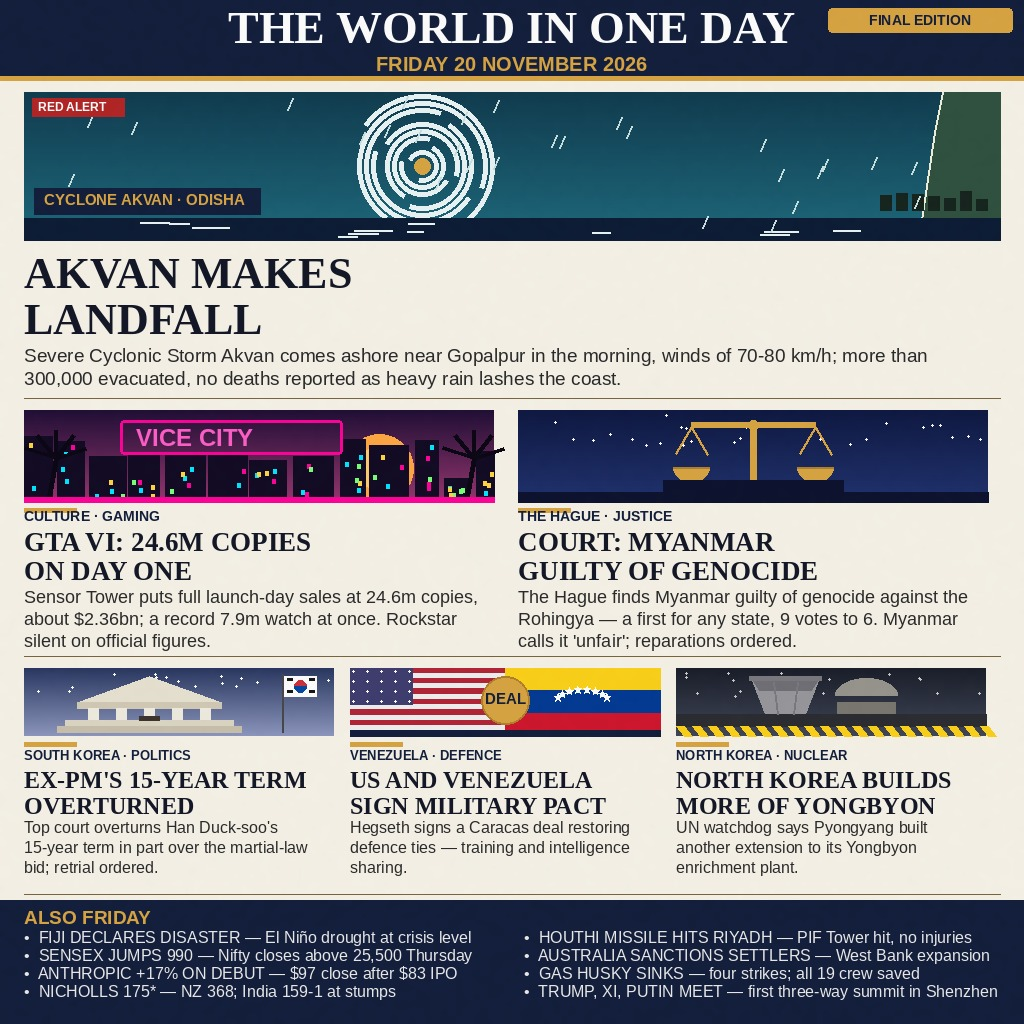
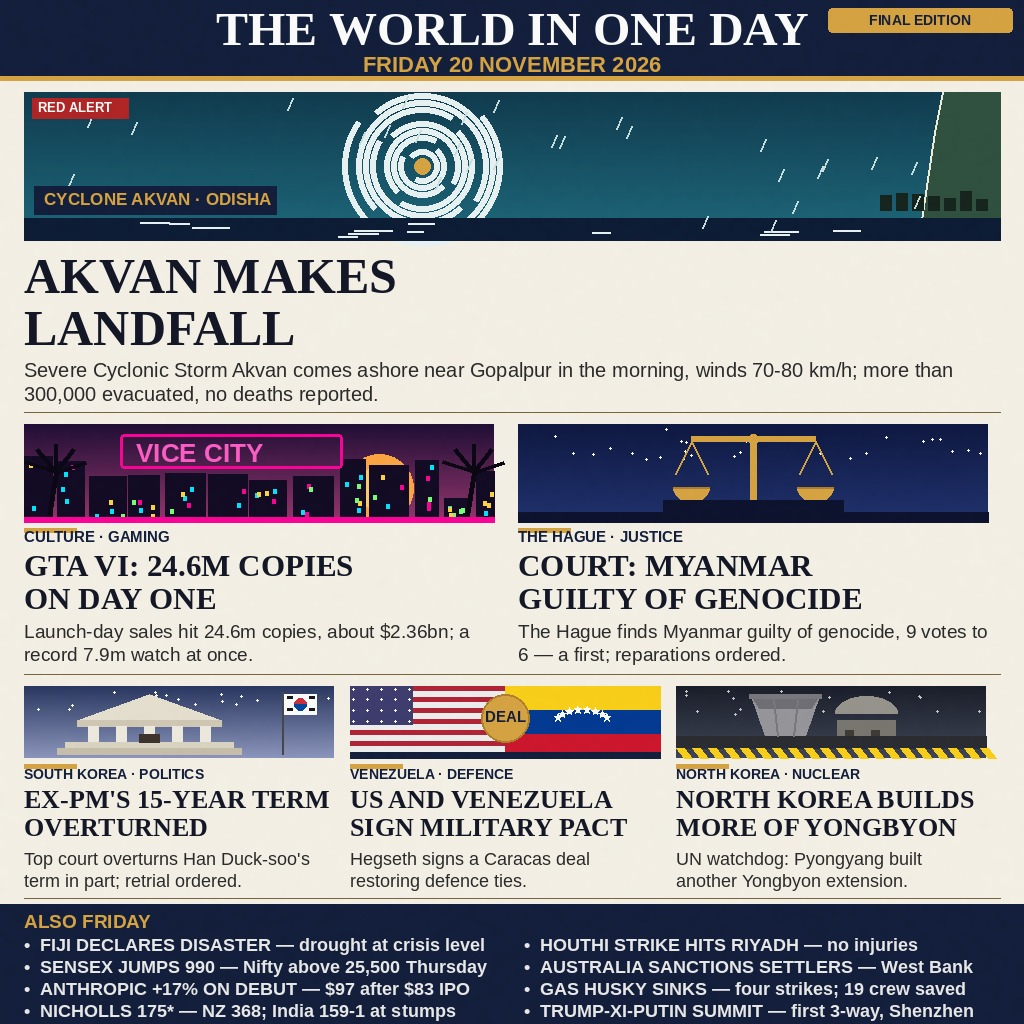
news-image-20261120 v4: re-typeset for the 300px read — bigger headlines, two-line decks, bold one-line briefs; no facts changed

diff --git a/main.ts b/main.ts
@@ -14,14 +14,12 @@ import { fileURLToPath } from "node:url";
 // pact and the Yongbyon expansion, plus an eight-item briefs band
 // (including the Shenzhen summit and the Houthi strike on Riyadh).
 //
-// v3: build.py re-verified every story against live reporting — Akvan
-// landfall in the morning (70-80 km/h, more than 300,000 evacuated,
-// no deaths), GTA VI full launch-day sales 24.6m / $2.36bn, cricket at
-// stumps (Nicholls 175*, NZ 368), ICJ deck adds Myanmar's "unfair"
-// dismissal, and two missing major stories added (Shenzhen summit,
-// Houthi strike on Riyadh's PIF Tower). Briefs band set at 16pt for
-// 300px legibility. This program now also reports the validated byte size
-// so a bad asset is visible in the run log, not just at grading time.
+// v4: build.py re-typeset the page for the 300px read only — no fact
+// or number changed. Headlines up (hero 50pt, row 2 31pt, row 3 26pt),
+// every deck cut to two lines at larger type, briefs set bold at 18pt
+// and shortened to one line each, art strips taller, hero spiral
+// enlarged. The image below is the v4 render (deterministic, same
+// bytes on a re-run); everything else about this program is unchanged.
 const MAX_BYTES = 1048576; // 1 MiB gate cap
 const outDir = process.env.MAKEFUN_OUTPUT_DIR ?? "/output";
 mkdirSync(outDir, { recursive: true });

diff --git a/build.py b/build.py
@@ -16,6 +16,17 @@ injuries). The soft royals brief is swapped out for the Houthi strike.
 ICJ deck adds Myanmar calling the ruling "unfair" on Friday. Briefs
 stay 16pt; an 8th brief fits the band's second column.
 
+v4 (this session): CRAFT ONLY — no fact or number changed. The v3
+image at 300px wide showed decks and briefs washing out to grey mush
+and row-3 headlines barely readable, so the page is re-typeset for
+the 300px read: headlines up (hero 44->50pt, row 2 27->31pt, row 3
+24->26pt — 26pt is the largest that still fits the 310px row-3 tiles),
+every deck cut to two lines max at larger type (hero 20pt, row 2
+19pt, row 3 18pt), briefs set bold at 18pt and shortened to fit one
+line each, hero spiral enlarged and its chips bumped, art strips
+taller (row 2 92->98px, row 3 68->72px). Layout re-gridded to fit:
+hero deck ends ~402, row 2 424-662, row 3 686-888, briefs 904-1024.
+
 Stories (all verified against reputable reporting before they were drawn):
   hero  Cyclone Akvan makes landfall near Gopalpur, Odisha, in the
         morning (07:30-08:30 IST), winds 70-80 km/h gusting 90; more
@@ -136,11 +147,11 @@ def cyclone_hero(img, box, rng):
     vgrad(img, box, (14, 58, 78), (28, 104, 124))
     d = ImageDraw.Draw(img, "RGBA")
     cx, cy = (x0 + x1) // 2 - 90, (y0 + y1) // 2
-    # spiral bands, tightening toward the eye
-    for r in range(72, 12, -7):
+    # spiral bands, tightening toward the eye (v4: larger, fills the strip)
+    for r in range(80, 14, -7):
         start = (r * 13) % 360
         d.arc([cx - r, cy - r, cx + r, cy + r], start=start,
-              end=start + 255, fill=(235, 245, 245), width=5)
+              end=start + 255, fill=(235, 245, 245), width=6)
     d.ellipse([cx - 8, cy - 8, cx + 8, cy + 8], fill=GOLD)
     # coastline and a small coastal town on the right
     d.polygon([(x1 - 58, y0), (x1, y0), (x1, y1), (x1 - 82, y1),
@@ -162,13 +173,13 @@ def cyclone_hero(img, box, rng):
         rx = rng.randint(x0 + 4, x1 - 8)
         ry = rng.randint(y0 + 4, y1 - 20)
         d.line([rx, ry, rx - 5, ry + 12], fill=(200, 225, 225), width=2)
-    # tags: red alert top-left, kicker chip bottom-left
-    d.rectangle([x0 + 8, y0 + 6, x0 + 100, y0 + 24], fill=RED)
-    d.text((x0 + 14, y0 + 8), "RED ALERT", font=fnt(SANS_B, 12),
+    # tags: red alert top-left, kicker chip bottom-left (v4: larger type)
+    d.rectangle([x0 + 8, y0 + 6, x0 + 104, y0 + 26], fill=RED)
+    d.text((x0 + 14, y0 + 8), "RED ALERT", font=fnt(SANS_B, 13),
            fill=(255, 255, 255))
-    d.rectangle([x0 + 10, y1 - 52, x0 + 236, y1 - 26], fill=NAVY)
-    d.text((x0 + 20, y1 - 49), "CYCLONE AKVAN · ODISHA",
-           font=fnt(SANS_B, 15), fill=GOLD)
+    d.rectangle([x0 + 10, y1 - 54, x0 + 252, y1 - 26], fill=NAVY)
+    d.text((x0 + 20, y1 - 51), "CYCLONE AKVAN · ODISHA",
+           font=fnt(SANS_B, 17), fill=GOLD)
 
 
 def neon_city(img, box, rng):
@@ -186,7 +197,7 @@ def neon_city(img, box, rng):
     # neon sign across the top
     d.rounded_rectangle([x0 + 96, y0 + 10, x0 + 318, y0 + 44], radius=4,
                         outline=(255, 0, 153), width=3)
-    d.text((x0 + 112, y0 + 14), "VICE CITY", font=fnt(SANS_B, 24),
+    d.text((x0 + 112, y0 + 14), "VICE CITY", font=fnt(SANS_B, 26),
            fill=(255, 92, 199))
     # palm silhouettes at both edges
     for px in (x0 + 24, x1 - 28):
@@ -368,91 +379,90 @@ def main():
     img = Image.new("RGB", (W, H), PAPER)
     d = ImageDraw.Draw(img)
 
-    # ---- masthead ----
+    # ---- masthead (v4: title 48pt, date 22pt) ----
     d.rectangle([0, 0, W, 76], fill=NAVY)
-    d.text((W // 2, 2), "THE WORLD IN ONE DAY", font=fnt(SERIF_B, 46),
+    d.text((W // 2, 2), "THE WORLD IN ONE DAY", font=fnt(SERIF_B, 48),
            fill=(255, 255, 255), anchor="ma")
-    d.text((W // 2, 52), "FRIDAY 20 NOVEMBER 2026", font=fnt(SANS_B, 20),
+    d.text((W // 2, 52), "FRIDAY 20 NOVEMBER 2026", font=fnt(SANS_B, 22),
            fill=GOLD, anchor="ma")
     d.rectangle([0, 76, W, 80], fill=GOLD)
     d.rounded_rectangle([W - 196, 8, W - 12, 32], radius=4, fill=GOLD)
     d.text((W - 104, 12), "FINAL EDITION", font=fnt(SANS_B, 14),
            fill=NAVY, anchor="ma")
 
-    # ---- hero: cyclone art, headline, deck ----
+    # ---- hero: cyclone art, headline, deck (v4: 50pt headline,
+    # two-line 20pt deck — every line must survive the 300px read) ----
     cyclone_hero(img, (24, 92, 1000, 240), rng)
     d = ImageDraw.Draw(img)
-    d.text((24, 248), "AKVAN MAKES", font=fnt(SERIF_B, 44), fill=INK)
-    d.text((24, 294), "LANDFALL", font=fnt(SERIF_B, 44), fill=INK)
+    d.text((24, 248), "AKVAN MAKES", font=fnt(SERIF_B, 50), fill=INK)
+    d.text((24, 300), "LANDFALL", font=fnt(SERIF_B, 50), fill=INK)
     deck = ("Severe Cyclonic Storm Akvan comes ashore near Gopalpur in "
-            "the morning, winds of 70-80 km/h; more than 300,000 "
-            "evacuated, no deaths reported as heavy rain lashes the coast.")
-    y = 344
-    for line in wrap(d, deck, fnt(SANS, 19), 976):
-        d.text((24, y), line, font=fnt(SANS, 19), fill=BODY)
-        y += 23
-    d.line([24, 398, 1000, 398], fill=RULE, width=1)
+            "the morning, winds 70-80 km/h; more than 300,000 "
+            "evacuated, no deaths reported.")
+    y = 358
+    for line in wrap(d, deck, fnt(SANS, 20), 976):
+        d.text((24, y), line, font=fnt(SANS, 20), fill=BODY)
+        y += 24
+    d.line([24, 412, 1000, 412], fill=RULE, width=1)
 
-    # ---- row 2: two tiles ----
+    # ---- row 2: two tiles (v4: art 424-522, 31pt headlines,
+    # two-line 19pt decks) ----
     row2 = [
         ("CULTURE · GAMING", "GTA VI: 24.6M COPIES", "ON DAY ONE",
-         "Sensor Tower puts full launch-day sales at 24.6m copies, "
-         "about $2.36bn; a record 7.9m watch at once. Rockstar silent "
-         "on official figures.",
+         "Launch-day sales hit 24.6m copies, about $2.36bn; a record "
+         "7.9m watch at once.",
          neon_city),
         ("THE HAGUE · JUSTICE", "COURT: MYANMAR", "GUILTY OF GENOCIDE",
-         "The Hague finds Myanmar guilty of genocide against the "
-         "Rohingya — a first for any state, 9 votes to 6. Myanmar "
-         "calls it 'unfair'; reparations ordered.",
+         "The Hague finds Myanmar guilty of genocide, 9 votes to 6 — "
+         "a first; reparations ordered.",
          scales_art),
     ]
     for i, (kick, h1, h2, deck, art) in enumerate(row2):
         x0 = 24 + i * 494
-        tile_pair(img, d, rng, x0, x0 + 470, 410, 502, 508, 526, 586,
-                  kick, h1, h2, deck, art, 14, 27, 18, 470, 22)
+        tile_pair(img, d, rng, x0, x0 + 470, 424, 522, 528, 548, 620,
+                  kick, h1, h2, deck, art, 15, 31, 19, 470, 23)
     d = ImageDraw.Draw(img)
-    d.line([24, 656, 1000, 656], fill=RULE, width=1)
+    d.line([24, 674, 1000, 674], fill=RULE, width=1)
 
-    # ---- row 3: three tiles ----
+    # ---- row 3: three tiles (v4: art 686-758, 26pt headlines —
+    # the largest that fits the 310px tiles — two-line 18pt decks) ----
     row3 = [
         ("SOUTH KOREA · POLITICS", "EX-PM'S 15-YEAR TERM", "OVERTURNED",
-         "Top court overturns Han Duck-soo's 15-year term in part over "
-         "the martial-law bid; retrial ordered.",
+         "Top court overturns Han Duck-soo's term in part; retrial "
+         "ordered.",
          court_art),
         ("VENEZUELA · DEFENCE", "US AND VENEZUELA", "SIGN MILITARY PACT",
-         "Hegseth signs a Caracas deal restoring defence ties — training "
-         "and intelligence sharing.",
+         "Hegseth signs a Caracas deal restoring defence ties.",
          flags_art),
         ("NORTH KOREA · NUCLEAR", "NORTH KOREA BUILDS", "MORE OF YONGBYON",
-         "UN watchdog says Pyongyang built another extension to its "
-         "Yongbyon enrichment plant.",
+         "UN watchdog: Pyongyang built another Yongbyon extension.",
          reactor_art),
     ]
     for i, (kick, h1, h2, deck, art) in enumerate(row3):
         x0 = 24 + i * 326
-        tile_pair(img, d, rng, x0, x0 + 310, 668, 736, 748, 766, 818,
-                  kick, h1, h2, deck, art, 13, 24, 16, 310, 20)
+        tile_pair(img, d, rng, x0, x0 + 310, 686, 758, 766, 784, 848,
+                  kick, h1, h2, deck, art, 14, 26, 18, 310, 22)
     d = ImageDraw.Draw(img)
-    d.line([24, 894, 1000, 894], fill=RULE, width=1)
+    d.line([24, 898, 1000, 898], fill=RULE, width=1)
 
-    # ---- briefs band ----
-    d.rectangle([0, 900, W, H], fill=NAVY)
-    d.text((24, 906), "ALSO FRIDAY", font=fnt(SANS_B, 19), fill=GOLD)
+    # ---- briefs band (v4: bold 18pt, each brief one line) ----
+    d.rectangle([0, 904, W, H], fill=NAVY)
+    d.text((24, 910), "ALSO FRIDAY", font=fnt(SANS_B, 19), fill=GOLD)
     briefs = [
-        "FIJI DECLARES DISASTER — El Niño drought at crisis level",
-        "SENSEX JUMPS 990 — Nifty closes above 25,500 Thursday",
-        "ANTHROPIC +17% ON DEBUT — $97 close after $83 IPO",
+        "FIJI DECLARES DISASTER — drought at crisis level",
+        "SENSEX JUMPS 990 — Nifty above 25,500 Thursday",
+        "ANTHROPIC +17% ON DEBUT — $97 after $83 IPO",
         "NICHOLLS 175* — NZ 368; India 159-1 at stumps",
-        "HOUTHI MISSILE HITS RIYADH — PIF Tower hit, no injuries",
-        "AUSTRALIA SANCTIONS SETTLERS — West Bank expansion",
-        "GAS HUSKY SINKS — four strikes; all 19 crew saved",
-        "TRUMP, XI, PUTIN MEET — first three-way summit in Shenzhen",
+        "HOUTHI STRIKE HITS RIYADH — no injuries",
+        "AUSTRALIA SANCTIONS SETTLERS — West Bank",
+        "GAS HUSKY SINKS — four strikes; 19 crew saved",
+        "TRUMP-XI-PUTIN SUMMIT — first 3-way, Shenzhen",
     ]
     for i, b in enumerate(briefs):
         col = 0 if i < 4 else 1
         row = i if i < 4 else i - 4
-        d.text((24 + col * 500, 928 + row * 18), "•  " + b,
-               font=fnt(SANS, 16), fill=(235, 235, 235))
+        d.text((24 + col * 500, 934 + row * 22), "•  " + b,
+               font=fnt(SANS_B, 18), fill=(235, 235, 235))
 
     img = grain(img)
     img.save(HERE / "entry.png", "JPEG", quality=92)
